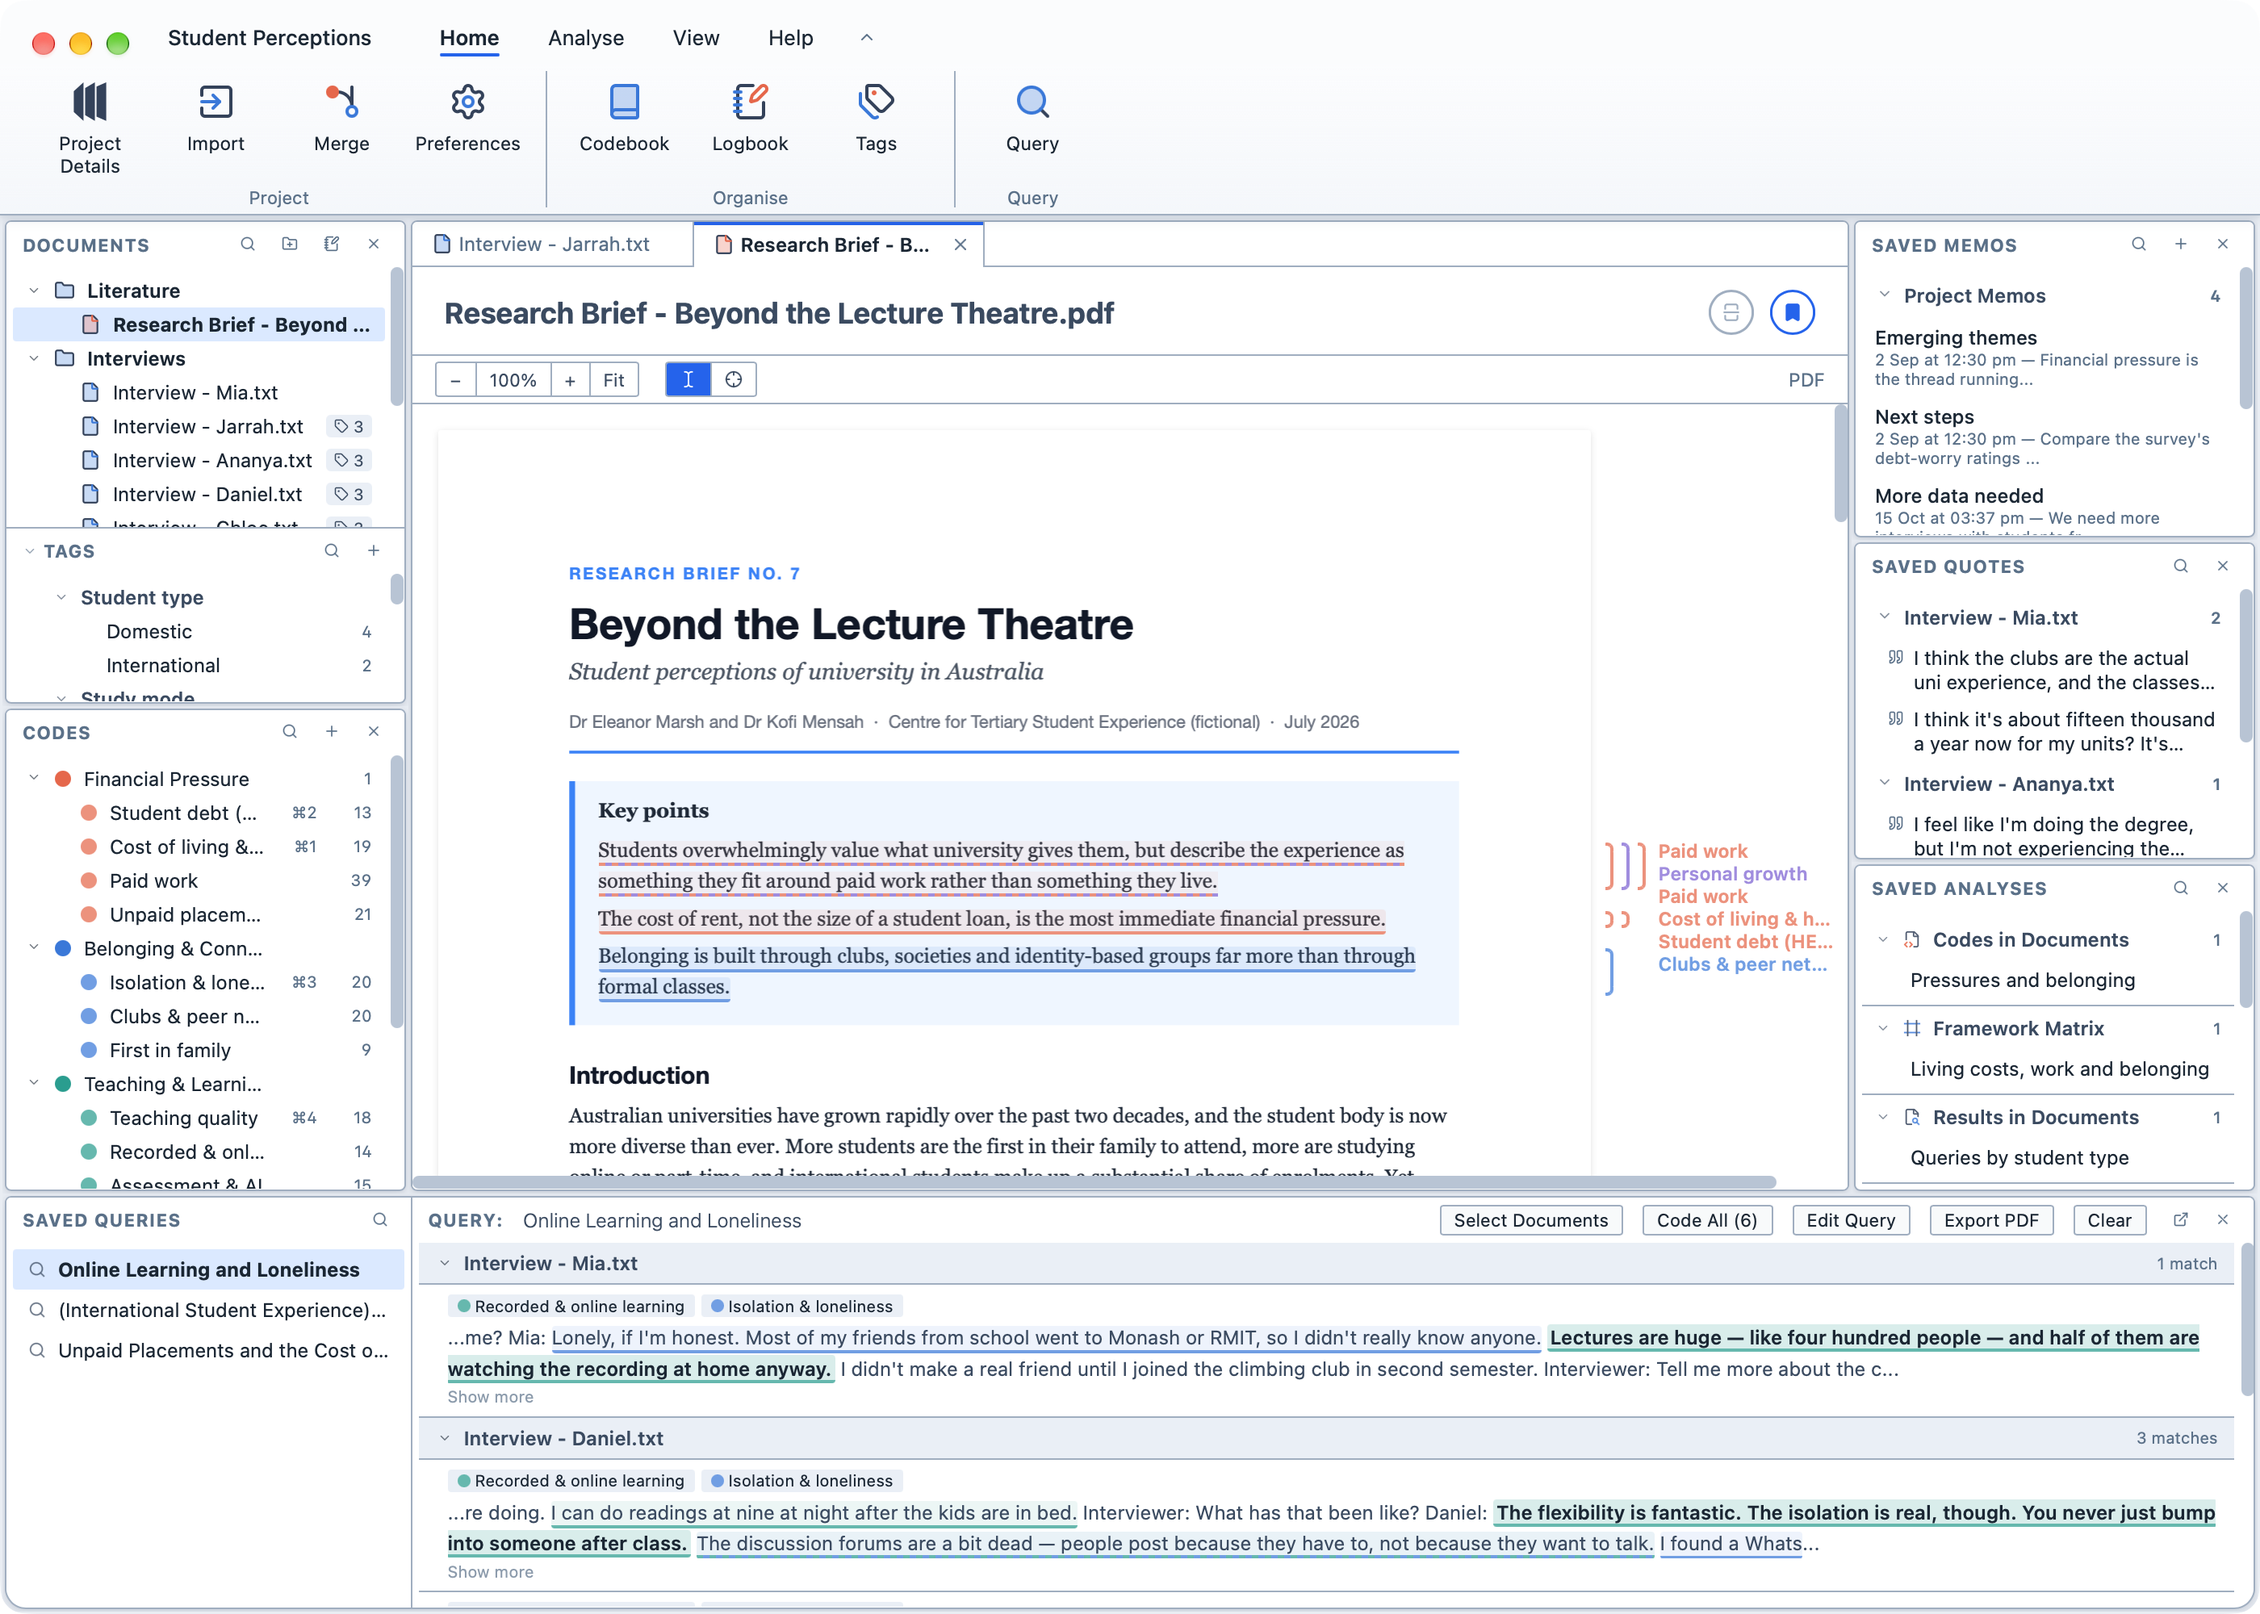
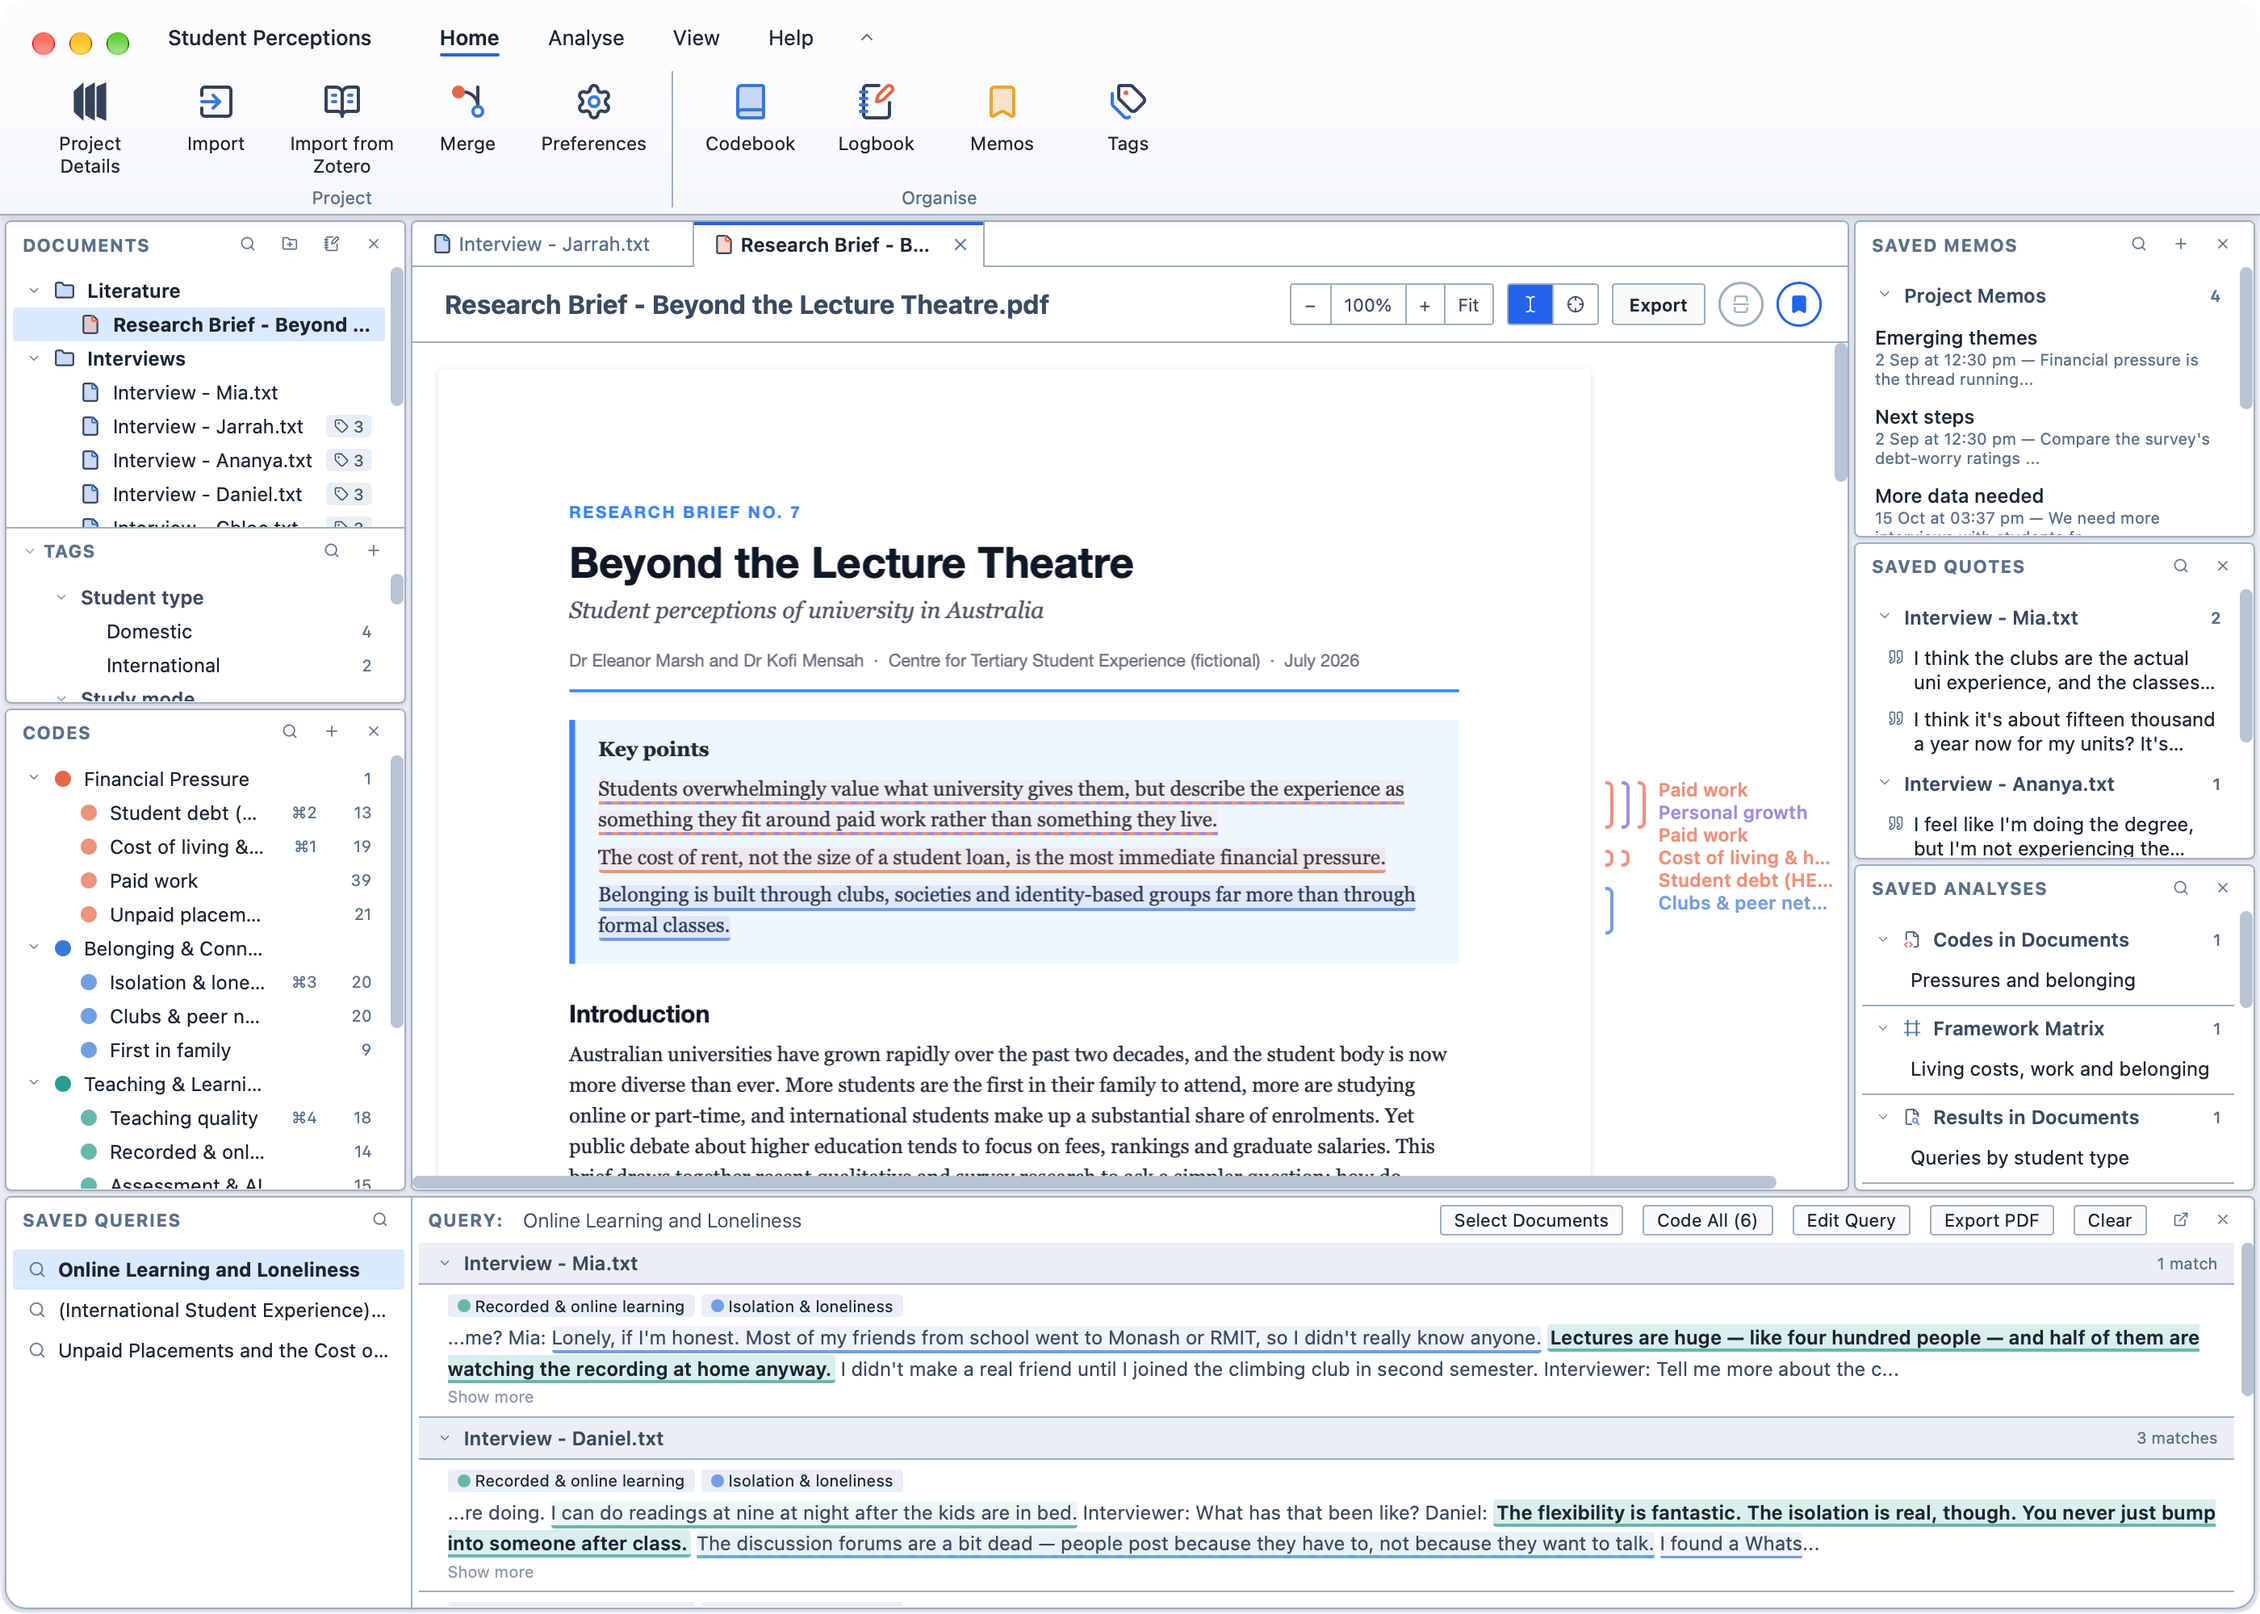
Describe Zotero import, date ranges and merging in the manual
Importing from Zotero, Tag nodes with date ranges in the Document
Selector, and a new Merging projects page with its Notebooks section.
Query now opens from the Analyse tab, and the window screenshots show
the new ribbon.

diff --git a/manual/guide/importing.md b/manual/guide/importing.md
@@ -11,4 +11,43 @@ The document appears in the Document Browser.
      <figcaption>The Document Browser.</figcaption>
 </figure>
 
+## Importing from Zotero
+
+If you keep your literature in [Zotero](https://www.zotero.org), you can import it straight into Magnolia, with each item's details attached as tags. Think of it as bringing your reference library into your project, ready to code.
+
+Magnolia reads Zotero's library from the Zotero app on your computer, so Zotero must be open while you import. Magnolia needs Zotero 7 or later.
+
+::: info
+The first time, Zotero must allow Magnolia to read its library. In Zotero, open `Settings`, choose `Advanced`, and tick `Allow other applications on this computer to communicate with Zotero`. If it isn't ticked, Magnolia tells you so.
+:::
+
+**To import from Zotero:**
+
+1. Open Zotero;
+2. Click `Import from Zotero` on the `Home` tab of the ribbon;
+3. Choose a library and a collection on the left, or type in `Filter items...` to find items;
+4. Tick the items you want, or `Select all`; and,
+5. Click `Import`.
+
+<figure>
+     <img src="./images/ZoteroImport.png" alt="Choosing items to import from Zotero.">
+     <figcaption>Choosing items to import from Zotero.</figcaption>
+</figure>
+
+Each item comes in as a document in a folder called `Zotero` in the Document Browser, named after the item's title in Zotero. Magnolia imports the item's file, such as its PDF; items without a file, or with a kind of file Magnolia can't import, can't be ticked, and the list says why.
+
+Magnolia also brings across the item's details:
+
+| From Zotero | In Magnolia |
+| --- | --- |
+| Item type, creators and every other field (publication, date, DOI and so on) | A tag in a tag category of the same name, such as `Author` or `Date`. Magnolia uses the categories and tags your project already has, and makes the ones it is missing. Dates become date tags. |
+| Zotero's own tags | Tags in a `Zotero Tags` category. |
+| Collections | Tags in a `Collection` category. |
+| The abstract and any notes | Document memos on the document. |
+
+Items you have already imported show `already in the project`, so you don't import them twice.
+
+::: tip
+Because every item's details are tags, you can select documents by author, year or journal in the [Document Selector](/guide/documentselector), or [group results](/guide/grouping) by them.
+:::
 

diff --git a/manual/guide/merging.md b/manual/guide/merging.md
@@ -1,0 +1,40 @@
+# Merging projects
+
+The Merge tool allows you to combine two copies of a project, so that colleagues can work on their own copies and bring their work together. Think of it as comparing two versions of a document side by side, and choosing what to keep.
+
+Magnolia compares the project you have open with the one you choose, and lists every difference. Nothing changes until you approve it.
+
+**To merge a project:**
+
+1. Open your copy of the project;
+2. Click `Merge` on the `Home` tab of the ribbon;
+3. Choose the other copy of the project;
+4. Go through each section on the left, and tick the changes you want to keep; and,
+5. Click `Apply Approved Changes`, then `Save`.
+
+A tick always means "this will be in the merged project". Something only in the other copy is unticked, so tick it to add it; something only in yours is ticked, so untick it to remove it. `Select All` and `Deselect All` apply to the section you are looking at.
+
+## Sections
+
+| Section | What it compares |
+| --- | --- |
+| `Documents` | Documents added or removed, renamed, or moved to another folder. |
+| `Notebooks` | Notebooks, the notes in them, the notes' text, and their codings. |
+| `Codes`, `Tags`, `Tag Categories` | Your codes and tags, and their names, colours and options. |
+| `Memos`, `Quotes`, `Logbook` | Memos, quotes and logbook entries. |
+| `Saved Queries`, `Saved Analyses` | Saved queries and analyses. |
+| `Folders` | Folders added, removed or renamed. |
+| `Document Text` | Documents whose text differs. |
+| `Codings` | Coded segments added or removed. |
+
+<figure>
+     <img src="./images/MergeNotebooks.png" alt="The Notebooks section of the Merge tool.">
+     <figcaption>The Notebooks section, with a new notebook and note, and a note whose text has changed.</figcaption>
+</figure>
+
+## Where documents and notes go
+A document or note you take from the other copy goes where it is filed there: in the same folder or notebook. If your project doesn't have that folder or notebook, Magnolia uses one of the same name, or brings it across.
+
+::: tip
+A note always stays in a notebook. If you remove a notebook in a merge but keep some of its notes, Magnolia keeps the notebook too.
+:::

diff --git a/manual/guide/documentselector.md b/manual/guide/documentselector.md
@@ -20,6 +20,29 @@ You can select which documents your query or analysis applies to by:
 You cannot simply drag documents directly from the Document Browser onto the Document Selector canvas. Instead, they must be dropped into a pre-existing Document node box on the canvas.
 :::
 
+## Tags with dates
+A tag node can select documents by a range of dates, such as every interview from March to April 2025. When you choose a date category, the node offers `Is`, `Between` and `Not Between`.
+
+**To select documents between two dates:**
+
+1. Add a `Tag` node and choose a date category;
+2. Click `Between`, or `Not Between` to leave those dates out; and,
+3. Type each date in the `DD`, `MM` and `YYYY` boxes; or,
+4. Pick a date already used in that category from the menu beside each date.
+
+<figure>
+     <img src="./images/DocumentSelectorDates.png" alt="Selecting documents dated between 1 March and April 2025.">
+     <figcaption>Selecting documents dated between 1 March and the end of April 2025.</figcaption>
+</figure>
+
+You can leave out the day, or the day and the month. A year on its own covers the whole year, so `Between` 2024 and 2025 runs to the end of 2025. Leave one date empty to select everything from, or up to, the other date.
+
+Dates are listed newest first.
+
+::: tip
+If a date is not a real date, such as 31/02/2025, its boxes turn red.
+:::
+
 ## Operators
 You can add logical operators into your document selection to refine it. Magnolia uses these logical operators:
 

diff --git a/manual/guide/interface.md b/manual/guide/interface.md
@@ -13,8 +13,8 @@ The ribbon groups Magnolia's commands on four tabs. Click a tab to see its butto
 
 | Tab | What it contains |
 | --- | --- |
-| `Home` | `Project Details`, `Import`, `Merge` and `Preferences`; the `Codebook`, `Logbook`, `Memos` and `Tags`; and `Query`, which opens the [Query Builder](/guide/querying#the-query-builder). |
-| `Analyse` | Every analysis tool, from [Codes in Documents](/guide/codesindocuments) to [Reports](/guide/reports). |
+| `Home` | `Project Details`, `Import`, [`Import from Zotero`](/guide/importing#importing-from-zotero), [`Merge`](/guide/merging) and `Preferences`; and the `Codebook`, `Logbook`, `Memos` and `Tags`. |
+| `Analyse` | `Query`, which opens the [Query Builder](/guide/querying#the-query-builder); and every analysis tool, from [Codes in Documents](/guide/codesindocuments) to [Reports](/guide/reports). |
 | `View` | A button for each pane, to show or hide it. |
 | `Help` | The `Manual`, the `Licence`, and `Donate`. |
 

diff --git a/manual/guide/querying.md b/manual/guide/querying.md
@@ -37,7 +37,7 @@ By default, the Document Selector is collapsed and applies your query to all doc
 
 The Query Builder allows you to create complex queries that target specific documents, groups of documents, survey questions, or survey respondents.
 
-To open the Query Builder, click `Query` on the `Home` tab of the ribbon.
+To open the Query Builder, click `Query` on the `Analyse` tab of the ribbon.
 
 The Query Builder has two sections: `From these documents`, which is the [Document Selector](/guide/documentselector), and `Find this content`, where you build the query itself.
 
